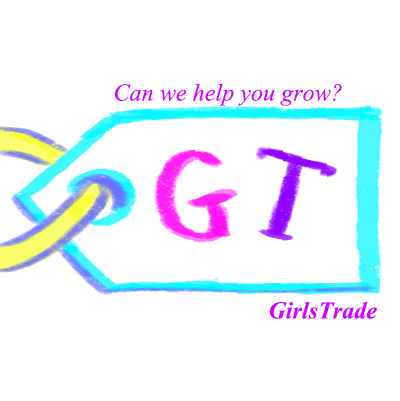
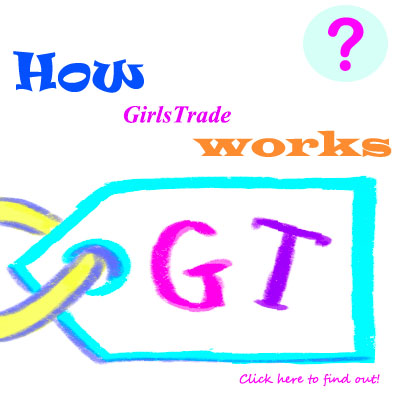
Link with index page (howitworkspage)

diff --git a/application/views/index.php b/application/views/index.php
@@ -673,7 +673,7 @@ window.onload = function(){
         <div class="col-sm-3 page-sidebar col-thin-left">
           <aside>
             <div class="inner-box no-padding panel-bevel">
-              <div class="inner-box-content"> <a href="#"><img class="img-responsive" src="<?php echo base_url();?>images/site/app.jpg" alt="tv"></a> </div>
+              <div class="inner-box-content"> <a href="<?php echo base_url().MY_PATH;?>howgirlstradeworks"><img class="img-responsive" src="<?php echo base_url();?>images/site/app.jpg" alt="tv"></a> </div>
             </div>
             <div class="inner-box panel-bevel">
               <h2 class="title-2 no-bottom"><span style="font-family: MyCustomFont; font-weight: 700; color: #E2348C;">Popular</span> Categories </h2>
